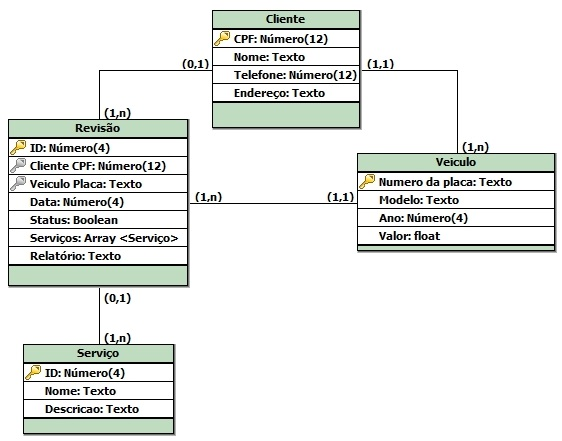
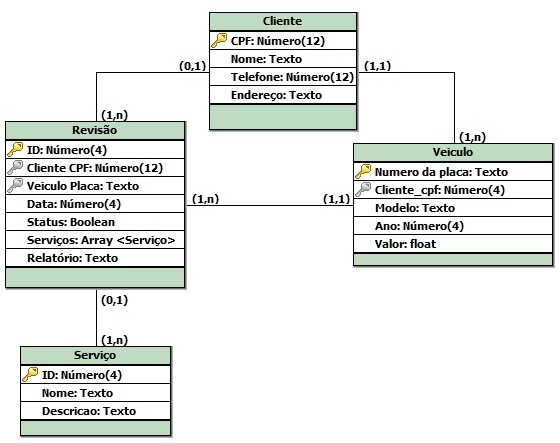
terminado veiculo controller

Changed region(s): [[0.0, 0.0, 1.0, 1.0]]

diff --git a/Server/src/controllers/VeiculoController.ts b/Server/src/controllers/VeiculoController.ts
@@ -1,30 +1,177 @@
 import models from "../models";
-const veiculo = models.veiculo;
+import veiculo from "../models/veiculo";
+const VeiculoModel = models.veiculo;
+const RevisaoModel = models.revisao;
 
 export default class VeiculoController {
+    //BASIC
+
     async create(req, res) {
-        let { numeroPlaca, modelo, ano, valor } = req.body;
+        let { numeroPlaca, modelo, ano, valor, cpf } = req.body;
 
         numeroPlaca = (numeroPlaca || "").toString().trim();
         modelo = (modelo || "").toString().trim();
+        ano = (ano || "").toString().trim();
+        valor = (valor || "").toString().trim();
+        cpf = (cpf || "").toString().trim();
 
-        return await veiculo
-            .create({ numeroPlaca, modelo, ano, valor })
+        return await VeiculoModel.create({
+            numeroPlaca,
+            modelo,
+            ano,
+            valor,
+            cpf,
+        })
             .then((r) => {
-                const { numeroPlaca, modelo, ano, valor } = r.get();
+                const { numeroPlaca, modelo, ano, valor, cpf } = r.get();
                 return res
                     .status(200)
-                    .json({ numeroPlaca, modelo, ano, valor });
+                    .json({ numeroPlaca, modelo, ano, valor, cpf });
             })
             .catch((err) => {
                 try {
                     return res.status(400).json({
-                        error: err,
+                        error: err.message,
                         type: "validation",
                     });
                 } catch (e) {
                     return res.status(400).json({ error: [e.message] });
                 }
+            });
+    }
+
+    async update(req, res) {
+        let { numeroPlaca, modelo, ano, valor, cpf } = req.body;
+        numeroPlaca = (numeroPlaca || "").toString();
+        modelo = (modelo || "").toString().trim();
+        ano = (ano || "").toString().trim();
+        valor = (valor || "").toString().trim();
+        cpf = (cpf || "").toString().trim();
+
+        if (numeroPlaca === "") {
+            return res
+                .status(400)
+                .json({ error: ["Forneça identificação do veiculo"] });
+        }
+
+        return await VeiculoModel.findOne({ where: { numeroPlaca } })
+            .then(async (veiculo) => {
+                if (veiculo) {
+                    await veiculo.update({ modelo, ano, valor, cpf });
+                    return res
+                        .status(200)
+                        .json({ numeroPlaca, modelo, ano, valor, cpf });
+                }
+                return res
+                    .status(400)
+                    .json({ error: ["Veiculo não identificado"] });
+            })
+            .catch((err) => {
+                try {
+                    return res.status(400).json({
+                        error: err.errors.map((item) => item.message),
+                        type: "validation",
+                    });
+                } catch (e) {
+                    return res.status(400).json({ error: [e.message] });
+                }
+            });
+    }
+
+    async remove(req, res) {
+        let { numeroPlaca } = req.body;
+        numeroPlaca = (numeroPlaca || "").toString();
+        if (numeroPlaca === "") {
+            return res
+                .status(400)
+                .json({ error: ["Forneça identificação do veiculo"] });
+        }
+
+        return await VeiculoModel.findOne({ where: { numeroPlaca } })
+            .then(async (veiculo) => {
+                if (veiculo) {
+                    const revisao = await RevisaoModel.findOne({
+                        where: { numeroPlaca },
+                    });
+                    if (!revisao) {
+                        await veiculo.destroy();
+                        return res.status(200).json({ numeroPlaca });
+                    } else {
+                        return res.status(400).json({
+                            error: [
+                                "Não pode ser excluido por estar em revisão",
+                            ],
+                        });
+                    }
+                } else {
+                    return res
+                        .status(400)
+                        .json({ error: ["Revisão inexistente"] });
+                }
+            })
+            .catch((err) => {
+                try {
+                    return res.status(400).json({
+                        error: err.message,
+                        type: "validation",
+                    });
+                } catch (e) {
+                    return res.status(400).json({ error: [e.message] });
+                }
+            });
+    }
+
+    //MISC
+
+    async find(req, res) {
+        let { numeroPlaca } = req.body;
+        numeroPlaca = (numeroPlaca || "").toString();
+        if (numeroPlaca === "") {
+            return res
+                .status(400)
+                .json({ error: ["Forneça identificação do veiculo"] });
+        }
+
+        return await VeiculoModel.findOne({ where: { numeroPlaca } })
+            .then(async (veiculo) => {
+                if (veiculo) {
+                    let { numeroPlaca, modelo, ano, valor, cpf } = veiculo;
+                    return res
+                        .status(200)
+                        .json({ numeroPlaca, modelo, ano, valor, cpf });
+                }
+                return res
+                    .status(400)
+                    .json({ error: ["Veiculo não identificado"] });
+            })
+            .catch((err) => {
+                try {
+                    return res.status(400).json({
+                        error: err.errors.map((item) => item.message),
+                        type: "validation",
+                    });
+                } catch (e) {
+                    return res.status(400).json({ error: [e.message] });
+                }
+            });
+    }
+
+    async list(req, res) {
+        let { limit, offset } = req.body;
+        return await VeiculoModel.findAndCountAll({
+            attributes: ["numeroPlaca", "cpf", "modelo", "ano", "valor"],
+            order: [["numeroPlaca", "ASC"]],
+            offset,
+            limit,
+        })
+            .then((veiculo) => {
+                return res.status(200).json({
+                    vacinas: veiculo.rows.map((item) => item.get()),
+                    count: veiculo.count,
+                });
+            })
+            .catch((e) => {
+                return res.status(400).json({ error: [e.message] });
             });
     }
 }

diff --git a/Server/src/controllers/ClienteController.ts b/Server/src/controllers/ClienteController.ts
@@ -1,0 +1,36 @@
+import models from "../models";
+const ClienteModel = models.cliente;
+
+export default class ClienteController {
+    //BASIC
+
+    async create(req, res) {
+        let { cpf, nome, telefone, endereco } = req.body;
+
+        cpf = (cpf || "").toString().trim();
+        nome = (nome || "").toString().trim();
+        telefone = (telefone || "").toString().trim();
+        endereco = (endereco || "").toString().trim();
+
+        return await ClienteModel.create({
+            cpf,
+            nome,
+            telefone,
+            endereco,
+        })
+            .then((r) => {
+                const { cpf, nome, telefone, endereco } = r.get();
+                return res.status(200).json({ cpf, nome, telefone, endereco });
+            })
+            .catch((err) => {
+                try {
+                    return res.status(400).json({
+                        error: err.message,
+                        type: "validation",
+                    });
+                } catch (e) {
+                    return res.status(400).json({ error: [e.message] });
+                }
+            });
+    }
+}

diff --git a/Server/src/routes/veiculo.ts b/Server/src/routes/veiculo.ts
@@ -1,9 +1,22 @@
 import express from "express";
 const router = express.Router();
-import VeiculoController from "../controllers";
-const { create } = new VeiculoController();
+import controllers from "../controllers";
+const VeiculoController = controllers.VeiculoController;
+const { create, update, find, remove, list } = new VeiculoController();
 
+// localhost:3100/veiculo/create  {"numeroPlaca":"abcd-1234","modelo":"2002","ano":"2002","valor":"150","cpf":"12345678"}
 router.post("/create", create);
+
+//localhost:3100/veiculo/update {"numeroPlaca":"abcd-1234","modelo":"2002","ano":"2002","valor":"150","cpf":"12345678"}
+router.put("/update", update);
+
+//localhost:3100/veiculo/find {"numeroPlaca":"abcd-1234"}
+router.get("/find", find);
+
+//localhost:3100/veiculo/remove {"numeroPlaca":"abcd-1234"}
+router.delete("/remove", remove);
+
+router.get("/list", list);
 
 router.use((req, res) => {
     res.status(400).json({ error: ["Operação desconhecida com o veiculo"] });

diff --git a/Server/src/models/Veiculo.ts b/Server/src/models/Veiculo.ts
@@ -10,6 +10,14 @@ const veiculo: any = Database.define(
             primaryKey: true,
             unique: { args: true, msg: "Essa placa ja existe no sistema" },
         },
+        cpf: {
+            type: Sequelize.STRING,
+            allowNull: false,
+            references: {
+                model: "cliente",
+                key: "cpf",
+            },
+        },
         modelo: {
             type: Sequelize.STRING,
             allowNull: false,

diff --git a/Server/src/models/index.ts b/Server/src/models/index.ts
@@ -16,17 +16,6 @@ servico.hasMany(revisao, {
     hooks: true, //usado para forçar o cascade no onDelete
 });
 
-veiculo.hasMany(cliente, {
-    foreignKey: {
-        name: "numeroPlaca",
-        allowNull: false,
-    },
-    sourceKey: "numeroPlaca",
-    onDelete: "restrict",
-    onUpdate: "cascade",
-    hooks: true, //usado para forçar o cascade no onDelete
-});
-
 database.sync();
 
 export default {

diff --git a/Server/src/routes/index.ts b/Server/src/routes/index.ts
@@ -1,8 +1,10 @@
 import express from "express";
 const router = express.Router();
 import veiculo from "./veiculo";
+import cliente from "./cliente";
 
 router.use("/veiculo", veiculo);
+router.use("/cliente", cliente);
 
 router.use((req, res) => {
     res.status(400).json({ error: ["Operação desconhecida"] });

diff --git a/Server/src/routes/cliente.ts b/Server/src/routes/cliente.ts
@@ -1,0 +1,9 @@
+import express from "express";
+const router = express.Router();
+import controllers from "../controllers";
+const ClienteController = controllers.ClienteController;
+const { create } = new ClienteController();
+
+router.post("/create", create);
+
+export default router;

diff --git a/Server/src/controllers/index.ts b/Server/src/controllers/index.ts
@@ -1,3 +1,7 @@
 import VeiculoController from "./VeiculoController";
+import ClienteController from "./ClienteController";
 
-export default VeiculoController;
+export default {
+    VeiculoController: VeiculoController,
+    ClienteController: ClienteController,
+};

diff --git a/Server/src/models/Cliente.ts b/Server/src/models/Cliente.ts
@@ -17,7 +17,7 @@ const cliente: any = Database.define(
             type: Sequelize.STRING,
             allowNull: false,
         },
-        telfone: {
+        telefone: {
             type: Sequelize.INTEGER,
             allowNull: false,
         },

diff --git a/Server/src/models/Revisao.ts b/Server/src/models/Revisao.ts
@@ -22,7 +22,7 @@ const revisao: any = Database.define(
                 key: "cpf",
             },
         },
-        placa_veiculo: {
+        numeroPlaca: {
             type: Sequelize.STRING,
             allowNull: false,
             references: {
